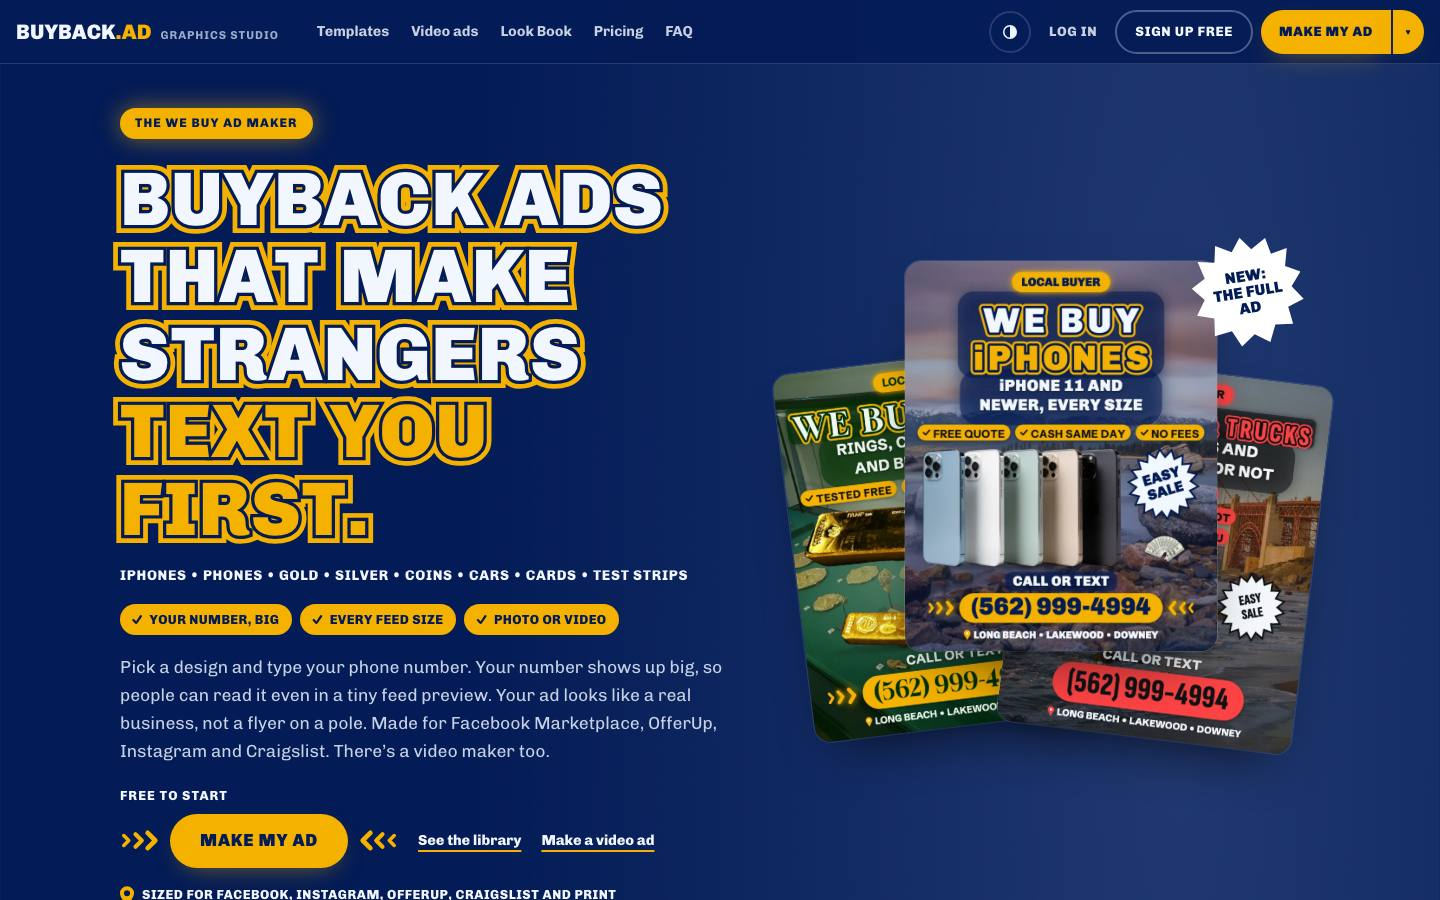
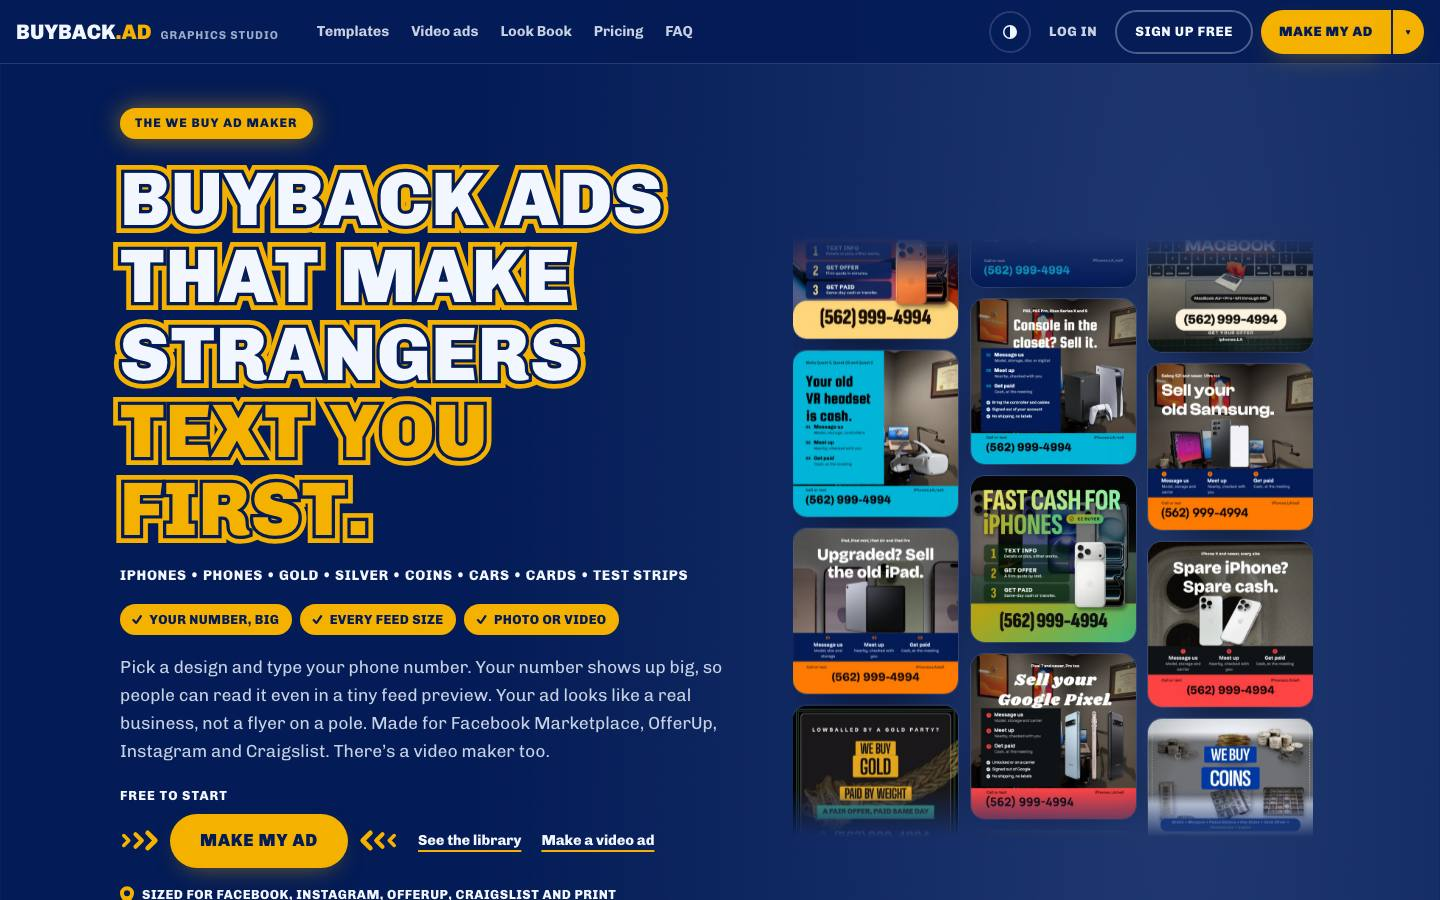
The owner's hero wall back in the house frame, over the three full ads
Pull request 14's 71b75e50 makes the hero wall take the owner's recipe and full-ad
picks; this branch had put three full ads where #hero-wall stood, and scBuildWall
returns when the wall is missing, so after the merge the picks showed nowhere (no
conflicted line: app.js changed on one side, index.html on the other).

- index.html: #hero-wall and its three .wall-col back inside .h-ads
- house.css: the wall in the house frame (rounded cards on the pair's panel, faded top
  and bottom, straight); the full ads and their starburst stand until it holds a card
  (:has(.wall-card)) and cross-fade out
- assets/hero/index.json, empty, in the shape build_hero_stills.mjs writes: the
  landing no longer logs a 404 before the first house pick
- rule 146, OPEN-ITEMS §BK 5 (the owner's rename to webuy.ad, recorded) and 10, the
  learning log with Lighthouse (landing 62 phone, 82 desktop with the wall), the
  AGENT-BRIEF line, the audit doc and the two desktop landing shots

Changed region(s): [[0.5312, 0.2489, 0.9375, 0.9333]]

diff --git a/house.css b/house.css
@@ -193,6 +193,22 @@
 :root[data-site='house'] #page-landing .h-ad-2{left:0;top:20%;transform:rotate(-7deg)}
 :root[data-site='house'] #page-landing .h-ad-3{right:0;top:22%;transform:rotate(7deg)}
 :root[data-site='house'] #page-landing .h-ads .h-burst{position:absolute;right:2%;top:0;z-index:3;width:110px;height:110px;font-size:15.5px;transform:rotate(-9deg)}
+/* the hero wall (the owner's hand picks: assets/hero-picks.json and assets/hero/, built by app.js
+   scBuildWall) in the house frame: three columns over the full ads, shown once a card is in it;
+   until then, or if it is never built, the three full ads stand. Straight, not tilted: a turned
+   box would reach past a phone's edge. */
+:root[data-site='house'] #page-landing .h-ads .hero-wall{position:absolute;inset:0;z-index:2;height:auto;display:grid;grid-template-columns:repeat(3,minmax(0,1fr));gap:12px;overflow:hidden;transform:none;
+  opacity:0;visibility:hidden;transition:opacity .45s ease,visibility 0s linear .45s;
+  -webkit-mask-image:linear-gradient(180deg,transparent 0,#000 8%,#000 92%,transparent 100%);mask-image:linear-gradient(180deg,transparent 0,#000 8%,#000 92%,transparent 100%)}
+:root[data-site='house'] #page-landing .h-ads:has(.wall-card) .hero-wall{opacity:1;visibility:visible;transition:opacity .45s ease}
+:root[data-site='house'] #page-landing .h-ads .h-ad{transition:opacity .45s ease,visibility 0s linear .45s}
+:root[data-site='house'] #page-landing .h-ads:has(.wall-card) .h-ad{opacity:0;visibility:hidden}
+/* the burst names the full ads; over the owner's library picks it would be a label they do not wear */
+:root[data-site='house'] #page-landing .h-ads .h-burst{transition:opacity .45s ease,visibility 0s linear .45s}
+:root[data-site='house'] #page-landing .h-ads:has(.wall-card) .h-burst{opacity:0;visibility:hidden}
+:root[data-site='house'] #page-landing .hero-wall .wall-col{gap:12px}
+:root[data-site='house'] #page-landing .hero-wall .wall-card,:root[data-site='house'] #page-landing .hero-wall .wall-card:nth-child(n){border:0;border-radius:14px;transform:none;background:var(--h-panel);box-shadow:var(--h-shadow),0 0 0 1px var(--h-line)}
+:root[data-site='house'] #page-landing .hero-wall .wall-card:hover{transform:scale(1.04);box-shadow:var(--h-shadow),0 0 0 2px var(--h-accent);z-index:2}
 
 /* the numbers, as pills */
 :root[data-site='house'] #page-landing .h-stats{max-width:1240px;margin:0 auto;display:flex;flex-wrap:wrap;gap:10px;padding:8px max(20px,env(safe-area-inset-right,0px)) 26px max(20px,env(safe-area-inset-left,0px));border:0}
@@ -391,6 +407,8 @@
   :root[data-site='house'] #page-landing .h-stat{padding:8px 13px}
   :root[data-site='house'] #page-landing .h-stat-lead{flex-basis:100%;border-radius:18px}
   :root[data-site='house'] #page-landing .h-ads .h-burst{width:88px;height:88px;font-size:12.5px}
+  :root[data-site='house'] #page-landing .h-ads .hero-wall,:root[data-site='house'] #page-landing .hero-wall .wall-col{gap:8px}
+  :root[data-site='house'] #page-landing .hero-wall .wall-card,:root[data-site='house'] #page-landing .hero-wall .wall-card:nth-child(n){border-radius:10px}
 }
 @media (max-width:380px){
   :root[data-site='house'] #page-landing .h-split .h-caret{display:none}

diff --git a/index.html b/index.html
@@ -198,6 +198,13 @@
       <img class="h-ad h-ad-1" src="assets/full-ads/hero-iphone.webp" width="720" height="900" fetchpriority="high" decoding="async" alt="A full ad in Navy and Gold: WE BUY IPHONES, iPhone 11 and newer, free quote, cash same day, no fees, and the number in a gold pill">
       <img class="h-ad h-ad-2" src="assets/full-ads/hero-gold.webp" width="720" height="900" decoding="async" alt="A full ad in Green and Gold: WE BUY GOLD, rings, chains, coins and broken gold">
       <img class="h-ad h-ad-3" src="assets/full-ads/hero-car.webp" width="720" height="900" decoding="async" alt="A full ad in Black and Red: WE BUY CARS AND TRUCKS, running or not">
+      <!-- the hero wall: the owner's hand picks (assets/hero-picks.json, assets/hero/), built by app.js
+           scBuildWall; it fades in over the three full ads once it holds a card, and they stand if it never does -->
+      <div class="hero-wall" id="hero-wall">
+        <div class="wall-col" data-dir="up"></div>
+        <div class="wall-col" data-dir="down"></div>
+        <div class="wall-col" data-dir="up"></div>
+      </div>
       <span class="h-burst" aria-hidden="true">New:<br>the full<br>ad</span>
     </div>
   </section>

diff --git a/docs/LEARNING-LOG.md b/docs/LEARNING-LOG.md
@@ -5817,3 +5817,49 @@ Not in it: 5f0e6ba8 (the pickup cards on the Trucks line, no unidentified car, n
 open laptop on the sealed Chromebook line), committed in the census session but not
 pushed; fold it in once it is. Pull request 15 (the site's look and SEO) is cut from
 cb6d8321, so it meets this in OPEN-ITEMS.md, where both added to the end.
+
+## 2026-11-18 (later) — pull request 14's variety work merged into the site's look; the owner's hero wall back (claude/zen-dijkstra-7b5a2e)
+
+Asked by the roadmap session: merge 9d895833 (the census's variety work), keep both
+sides of the two notes clashes, run seo_check again, confirm the inline-script hashes,
+push. Done in c5ccb24f: §BJ's fifth open item stays before §BK, this log keeps date
+order, and the SEO pages, the plans block and the hashes rebuild unchanged.
+seo_check passes; verify_csp, against a server that sends `_headers`, permits every
+inline script.
+
+Found: a clash git could not see. 71b75e50 made the hero wall (`#hero-wall`, app.js
+scBuildWall) take the owner's recipe and full-ad picks, on the owner's word ("I will
+hand select the best hero ones for variety of colors, styles, designs, copy"). This
+branch had put three full ads where the wall stood, and scBuildWall returns when the
+wall is missing, so the merged landing would have shown none of the picks: app.js
+changed on one side and index.html on the other, and neither file clashed. Fixed:
+the wall is back inside `.h-ads`, in the house frame, over the three full ads, which
+stand with their starburst until it holds a card (`:has(.wall-card)`). An empty
+assets/hero/index.json, in the shape build_hero_stills.mjs writes, ends the 404 the
+landing logged on every visit before the first house pick.
+
+Lighthouse, median of three, served as Netlify serves it: the landing 62 on a phone
+and 82 on a desktop with the wall, against 65 and 94 with the three ads alone (31 and
+60 before this branch). The wall is the owner's choice, and it costs: about 0.7 MB (its
+36 cards), blocking time 2.10 to 2.68 s on a phone and 165 to 302 ms on a desktop while
+app.js builds it and draws its offer cards, and a later visual finish (speed index 7.1
+to 9.3 s, 1.6 to 2.4 s). The largest paint is still the hero's paragraph (1.5 s, 0.3 s),
+layout shift 0, accessibility, best practices and SEO 100; the video maker is unchanged
+(71 and 77). The cut belongs in app.js: offer cards on the wall from drawn stills, as
+build_hero_stills.mjs does for house picks, and the wall built when the page is idle.
+
+Learned: a merge can undo a feature without a single conflicted line, when one side
+removes an element and the other builds on it. Before pushing a merge, list the ids
+the incoming app.js reads (`$('…')`, getElementById) and check each one is still in
+the merged markup.
+
+RESUME HERE:
+  0. The owner's word on pull request 15, and on the rename to webuy.ad (OPEN-ITEMS
+     §BK 5). The site's names come from build_seo_pages.mjs, the bar and foot, and
+     build_og_cards.mjs (the logo and the link previews); the app, the watermark and
+     the billing names reach further than this branch.
+  1. The studio's editor in the house look (§BK 2), its own session.
+  2. The landing's gallery built when it comes near the screen, and small grounds
+     for the offer cards (§BK 3): the rest of the blocking time.
+  3. The day webuy.ad answers: `SITE` in build_seo_pages.mjs, then Search Console
+     and Bing with the sitemap.

diff --git a/OPEN-ITEMS.md b/OPEN-ITEMS.md
@@ -3936,7 +3936,8 @@ Done:
   rewritten on the same token names so motion.css follows), the Look Book's own
   sheet, the 404, site-theme.js, a starburst favicon and a square logo
   (assets/brand/). The landing's markup is new; every id app.js binds is kept;
-  the hero wall of library cards gave its place to three real full ads. The
+  the hero is the owner's wall of hand picks in the house frame, over three
+  real full ads that stand until it is built (item 10). The
   plans overlay and the studio's two hidden headings follow (the latter now
   h2s: one h1 to the page).
 - **Real ads everywhere a picture is shown**: scripts/build_og_cards.mjs draws
@@ -4029,7 +4030,11 @@ Open:
    llms files name the Netlify address; `SITE` in build_seo_pages.mjs moves
    them, with index.html's head and the cards' URLs. Then register the domain
    in Google Search Console and Bing Webmaster Tools and submit sitemap.xml
-   (the owner's accounts).
+   (the owner's accounts). The owner, later on 2026-11-18: the concept is
+   rebranded **webuy.ad**, and that domain is bought. The site still says
+   BUYBACK.AD (the bar and foot, titles, structured data, the llms files, the
+   logo and every link preview); the rename waits on the owner's word, and
+   `SITE` moves to webuy.ad only once it answers.
 6. **The platform answers in the FAQ** rest on the research's reading of the
    platforms' own pages (docs/COMPETITOR-RESEARCH-2026-11-12.md §4); how
    strictly each is enforced is unknown, and the rules change. Read them again
@@ -4042,3 +4047,15 @@ Open:
 9. The Organization in the JSON-LD has no sameAs (no social profile was found
    to be the business's own) and no telephone (kept out of structured data on
    purpose; the number is on the page).
+10. **The hero wall is the owner's again** (done, 2026-11-18): pull request 14
+   moved to 9d895833 (the census's variety work), whose wall takes the owner's
+   recipe and full-ad picks. This branch had put three full ads where
+   `#hero-wall` stood, so merged as it was, the picks would have shown nowhere
+   (git saw no clash: app.js changed on one side, index.html on the other).
+   The wall is back inside `.h-ads` with its three `.wall-col`s, over the three
+   full ads, which stand until it holds a card (`:has(.wall-card)`). An empty
+   `assets/hero/index.json`, in the shape build_hero_stills.mjs writes, ends
+   the 404 the landing logged on every visit before the first house pick
+   (the script writes nothing while there is none). Checked at 390 and 1440,
+   light and dark: 36 cards, no sideways scroll, no console error, a card
+   opens Easy Mode. Lighthouse in the learning log.

diff --git a/DESIGN-LAW.md b/DESIGN-LAW.md
@@ -6129,9 +6129,18 @@ from a face that landed late), the Look Book 46 (0.86).
   points are chips with ticks; what is new or most bought wears the starburst;
   every main call to action is a pill between chevrons stepped in size, never
   in opacity (rule 139); places follow a pin. One accent to a pair, as on an ad.
-- **The pictures are real ads.** The hero shows three full ads drawn by the
-  video maker's engine, in three pairs and faces, where the wall of library
-  cards stood (the gallery under it keeps rule 106's mix); every category page
+- **The pictures are real ads.** The hero is the owner's wall: the hand picks
+  of assets/hero-picks.json (library cards, offers, and the recipes and
+  full-ad looks whose stills scripts/build_hero_stills.mjs draws into
+  assets/hero/), built by app.js into three moving columns, here in the house
+  frame (rounded cards on the pair's panel, faded top and bottom, straight so
+  nothing reaches past a phone's edge). Until it holds a card, and if it never
+  does, three full ads drawn by the video maker's engine, in three pairs and
+  faces, stand in its place with the starburst that names them; the wall fades
+  in over them. The owner chooses what the hero shows ("I will hand select the
+  best hero ones for variety of colors, styles, designs, copy"), so a remake of
+  the landing keeps `#hero-wall` and its three `.wall-col`s. The gallery under
+  it keeps rule 106's mix; every category page
   shows its own line's ad; every link preview is a full ad on its pair's ground
   (assets/og/, 1200x630). scripts/build_og_cards.mjs draws them with the
   current house engine (rule 145's grounds included), the line's own words and

diff --git a/docs/SEO-AUDIT-2026-11-18.md b/docs/SEO-AUDIT-2026-11-18.md
@@ -96,6 +96,14 @@ On the merged branch (this work with cb6d8321 in it), median of three the same w
 landing 65 phone and 94 desktop, the video maker 72 and 78, the Look Book 71 and 90, with
 accessibility 100 on each; the merge cost nothing measurable on the landing.
 
+After the second merge (9d895833, whose hero wall takes the owner's hand picks), the
+wall is back in the hero over the three full ads (OPEN-ITEMS §BK 10). The landing is 62
+on a phone and 82 on a desktop with it: the wall's 36 cards add about 0.7 MB and some
+blocking time while app.js builds them (2.10 to 2.68 s phone, 165 to 302 ms desktop),
+and the hero finishes later (speed index 7.1 to 9.3 s, 1.6 to 2.4 s). The largest paint
+is still the hero's paragraph, layout shift 0, the other three scores 100. The video
+maker is unchanged (71 and 77).
+
 ## After
 
 - Every public page: a unique title and description in the trade's words, a

diff --git a/AGENT-BRIEF.md b/AGENT-BRIEF.md
@@ -585,6 +585,8 @@ produced." DESIGN-LAW rule 87. In practice:
   files from its tables; build_og_cards.mjs draws the real ads the pages and
   link previews show. Edit the tables, run both, then `seo_check.mjs` and
   `csp_hashes.mjs`; never hand-edit a generated head or the FAQ's JSON-LD.
+  The hero is the owner's wall of hand picks (`#hero-wall`, app.js
+  scBuildWall): a remake of the landing keeps it and its three `.wall-col`s.
 - **The scripts:** a script that rewrites a showcase record passes its
   candidates through `gateRecords(page, pairs)` and writes only what
   `accept` keeps (see neutral_panels.mjs for the pattern). `live()` from the
